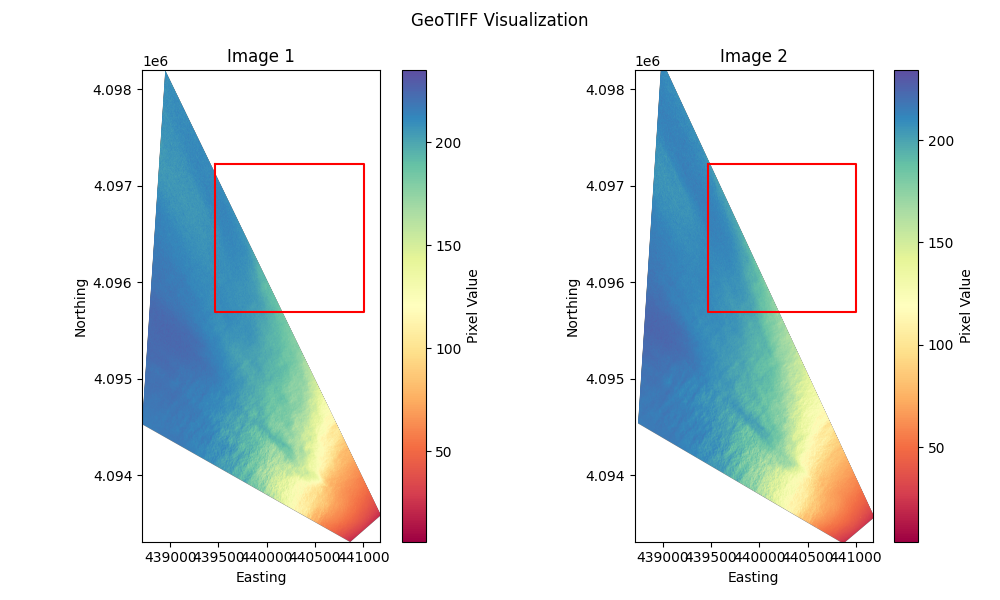
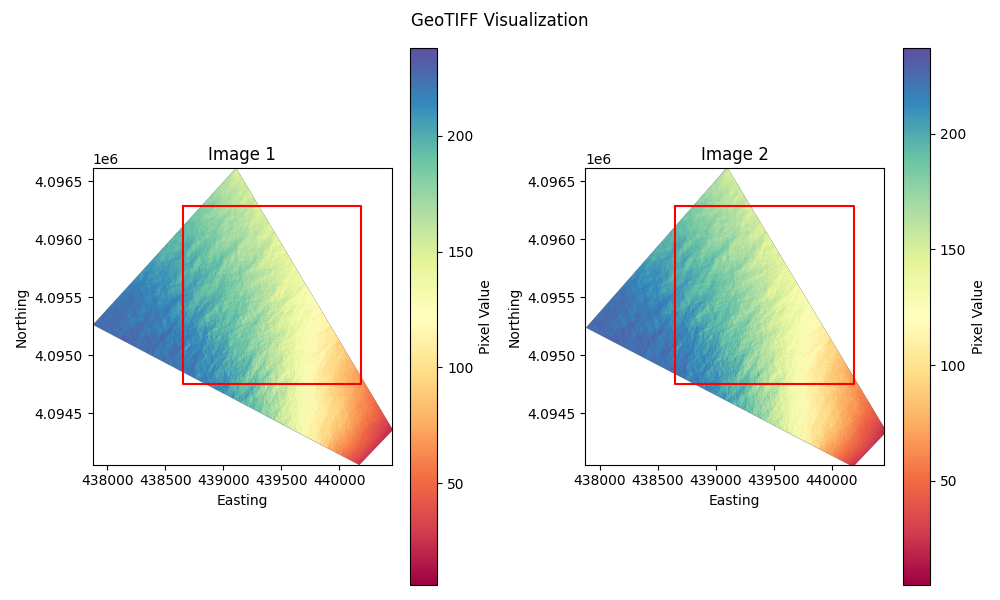
Early image processing code

diff --git a/process_images.py b/process_images.py
@@ -9,32 +9,78 @@ import exiftool
 import matplotlib.pyplot as plt
 import aerial_imagery.geotiff
 
-### INPUTS
-box_size=256*6
-exif_nc_dir = '/scratch/pawsey0106/azulberti/DOPPVIS'
+### INPUTS ###
+box_size  = 256*4
+image_seq = 8 # Spacing between images in image pairs
+
+exif_nc_dir  = '/scratch/pawsey0106/azulberti/DOPPVIS'
+
+# These ones are East-West flight lines
 exif_nc_stub = 'DoppVis_20230418_000132_054-20230418_001344_555'
 
+# These ones are West-East flight lines
+exif_nc_stub = 'DoppVis_20230418_001542_055-20230418_002726_555'
 
 print('Starting image processing...')
 
+output_dir = os.path.join(exif_nc_dir, 'processed_images')
 
-exif_nc = os.path.join(exif_nc_dir, f'{exif_nc_stub}_exif_data.nc')
-nc_outfile = os.path.join(exif_nc_dir, f'{exif_nc_stub}_extracted_boxes_v2.nc')
+exif_nc    = os.path.join(exif_nc_dir, f'{exif_nc_stub}_exif_data.nc')
+nc_outfile = os.path.join(output_dir, f'{exif_nc_stub}_extracted_boxes_[{image_seq}_{box_size}].nc')
+
+
+if not os.path.exists(output_dir):
+    os.makedirs(output_dir)
 
 if os.path.exists(nc_outfile):
     print(f'   {nc_outfile} already exists...')
     pass
 
-
-
 os.path.exists(exif_nc)
-
 ds_exif = xr.open_dataset(exif_nc)
 
 print(ds_exif)
 
-files = ds_exif['File:FileName'].values
-first_image = files[0]
+# files = ds_exif['File:FileName'].values
+# first_image = files[0]
+
+def get_theta(ds_exif):
+    # Extracting the angle of the flight line 
+    ModelTiePoint = ds_exif['EXIF:ModelTiePoint'].values
+    PixelScale    = ds_exif['EXIF:PixelScale'].values
+
+    Easting_tl    = np.array([float(mtp.split(' ')[3]) for mtp in ModelTiePoint])
+    Northing_tl   = np.array([float(mtp.split(' ')[4]) for mtp in ModelTiePoint])
+    scale_x       = np.array([float(mtp.split(' ')[0]) for mtp in PixelScale])
+    scale_y       = np.array([float(mtp.split(' ')[1]) for mtp in PixelScale])
+    width         = ds_exif['EXIF:ImageWidth'].values
+    height        = ds_exif['EXIF:ImageHeight'].values
+
+    Easting_br = Easting_tl + scale_x * width
+    Northing_br = Northing_tl - scale_y * height
+
+    # Now fit a line to Easting_br and Northing_br  to get the angle
+    A = np.vstack([Easting_br, np.ones(len(Easting_br))]).T
+    m, c = np.linalg.lstsq(A, Northing_br, rcond=None)[0]
+    theta = np.arctan(m) * 180 / np.pi
+
+    print(f'Flight line angle (theta): {theta} degrees')
+
+    return theta, Easting_br, Northing_br
+
+theta, Easting_br, Northing_br = get_theta(ds_exif)
+# Now we need to determine the flight direction 
+if np.mean(Easting_br[0:10]) > np.mean(Easting_br[-10:]):
+    flight_direction = 'E-W'
+    raise Exception("Don't wan't to deal with this case yet")
+else:
+    flight_direction = 'W-E'
+    print('Flight direction is W-E')
+    # raise Exception("Should be right")
+
+all_exif_nc    = os.path.join(exif_nc_dir, f'*_exif_data.nc')
+all_exif_nc_files = glob.glob(all_exif_nc)
+print(f'Found {len(all_exif_nc_files)} exif nc files in {exif_nc_dir}')
 
 # print(f'First image in the dataset: {first_image}')
 
@@ -54,17 +100,17 @@ first_image = files[0]
 
 # print('Image processing complete.')
 
-def get_data(ds_exif, index):
+def get_data(ds_exif, index, image_seq=1):
     # Add an option to be given file 1, such as in the event of series loading
 
     file  = ds_exif['File:FileName'].values[index]  # Just take the first file for demonstration
-    file2 = ds_exif['File:FileName'].values[index+1]  # Just take the first file for demonstration
+    file2 = ds_exif['File:FileName'].values[index+image_seq]  # Just take the first file for demonstration
 
     data, extent   = _get_data(file)
     data2, extent2 = _get_data(file2)
 
-    time = ds_exif['time'].values[index]
-    time2 = ds_exif['time'].values[index+1]
+    time  = ds_exif['time'].values[index]
+    time2 = ds_exif['time'].values[index+image_seq]
 
     return data, extent, data2, extent2, time, time2
 
@@ -91,6 +137,8 @@ def find_box(data, extent, data2, extent2, box_size=256*12):
     # Find a random box in the first image and locate it's pixel coordinates in the second image
     import numpy as np
     import random
+
+    max_attemps = 150
 
     h, w = data.shape
     h2, w2 = data2.shape
@@ -125,13 +173,14 @@ def find_box(data, extent, data2, extent2, box_size=256*12):
         if np.isfinite(box).all() and np.isfinite(box2).all():
             happy = True
 
-        if attempts > 5:
+        if attempts > max_attemps:
+            print(f"   Could not find a valid box after {max_attemps} attempts, returning NaNs for box2")
             return box, None, (y, y+box_size, x, x+box_size), [None]*4, (lon1, lat1, lon2, lat2)
 
-
-    print(f"Box in image 1 at pixel coordinates: y={y}:{y+box_size}, x={x}:{x+box_size}")
-    print(f"Box in image 2 at geographic coordinates: lon1={lon1}, lat1={lat1}, lon2={lon2}, lat2={lat2}")
-    print(f"Box in image 2 at pixel coordinates: y={y2_1}:{y2_2}, x={x2_1}:{x2_2}")
+    print(f"Found valid box after {attempts} attempts:")
+    print(f"    Box in image 1 at pixel coordinates: y={y}:{y+box_size}, x={x}:{x+box_size}")
+    print(f"    Box in image 2 at geographic coordinates: lon1={lon1}, lat1={lat1}, lon2={lon2}, lat2={lat2}")
+    print(f"    Box in image 2 at pixel coordinates: y={y2_1}:{y2_2}, x={x2_1}:{x2_2}")
 
     return box, box2, (y, y+box_size, x, x+box_size), (y2_1, y2_2, x2_1, x2_2), (lon1, lat1, lon2, lat2)
 
@@ -165,12 +214,19 @@ def interpolate_boxes(box, box2, lon1, lat1, lon2, lat2):
     return boxI, box2I, dx, dy
 
 
+big_N = len(ds_exif)-1
+big_N = 50 
 
-for i in range(0, len(ds_exif)-1, 1):
-    print(f'Processing image pair index: {i} and {i+1}')
-    data, extent, data2, extent2, time, time2 = get_data(ds_exif, i)
+boxes1, boxes2 = [], []
+times1, times2 = [], []
+min_lons, min_lats, max_lons, max_lats = [], [], [], []
+time_processed = []
 
-    print('get_data line complete.')
+for i in range(0, big_N, 1):
+    print(f'Processing image pair index: {i} and {i+image_seq}')
+    data, extent, data2, extent2, time, time2 = get_data(ds_exif, i, image_seq)
+
+    print(f'get_data line complete for times {time} and {time2}.')
 
     box, box2, (y1, y2, x1, x2), (y21, y22, x21, x22), (lon1, lat1, lon2, lat2) = find_box(data, extent, data2, extent2, box_size=box_size)
     print((lon1, lat1, lon2, lat2))
@@ -179,11 +235,11 @@ for i in range(0, len(ds_exif)-1, 1):
     dy = (lat2 - lat1) / box.shape[0]
     print(f"dx={dx}, dy={dy}")
 
-    if False:
-        plt.figure(figsize=(10, 6)) # Adjust figure size as needed
+    if True:
+        plt.figure(figsize=(10, 12)) # Adjust figure size as needed
         plt.suptitle('GeoTIFF Visualization')
 
-        ax = plt.subplot(1, 2, 1)
+        ax = plt.subplot(2, 2, 1)
         plt.imshow(data, cmap='Spectral', extent=extent, origin='upper') # 'viridis' is a common colormap
         plt.colorbar(label='Pixel Value') # Add a color bar to indicate pixel values
         plt.title('Image 1')
@@ -192,7 +248,7 @@ for i in range(0, len(ds_exif)-1, 1):
         yl, xl = plt.ylim(), plt.xlim()
         plt.plot([lon1, lon2, lon2, lon1, lon1], [lat1, lat1, lat2, lat2, lat1], 'r-')
 
-        ax = plt.subplot(1, 2, 2)
+        ax = plt.subplot(2, 2, 2)
         plt.imshow(data2, cmap='Spectral', extent=extent2, origin='upper') # 'viridis' is a common colormap
         plt.colorbar(label='Pixel Value') # Add a color bar to indicate pixel values
         plt.title('Image 2')
@@ -202,17 +258,16 @@ for i in range(0, len(ds_exif)-1, 1):
         plt.ylim(yl)
         plt.plot([lon1, lon2, lon2, lon1, lon1], [lat1, lat1, lat2, lat2, lat1], 'r-', label='Randomly placed 1.5 km for spectral calcs')
 
-        plt.tight_layout()
+        # image_name = os.path.join(output_dir, f'{exif_nc_stub}_search_box_[pair_{i:03d}].png')
 
-        image_name = os.path.join(exif_nc_dir, f'{exif_nc_stub}_search_box_[pair_{i}].png')
-        plt.savefig(image_name)
-        print(f'Saved image to {image_name}')
+        # print(f'Saved image to {image_name}')
 
     if not box2 is None:
         ll_ext = (lon1, lon2, lat1, lat2)
+
         # Plot the extracted boxes
-        plt.figure(figsize=(10, 4))
-        ax = plt.subplot(1, 2, 1)
+        # plt.figure(figsize=(10, 4))
+        ax = plt.subplot(2, 2, 3)
         plt.suptitle(f'Extracted Boxes are [{box.shape[0]} x {box.shape[1]}] pixels i.e. {box.shape[0]*dx} m')
         plt.imshow(box, cmap='Spectral', origin='upper', extent=ll_ext) # 'viridis' is
         plt.colorbar(label='Pixel Value') # Add a color bar to indicate pixel values
@@ -220,7 +275,7 @@ for i in range(0, len(ds_exif)-1, 1):
         plt.xlabel('Easting')
         plt.ylabel('Northing')
 
-        ax = plt.subplot(1, 2, 2)
+        ax = plt.subplot(2, 2, 4)
         plt.imshow(box2, cmap='Spectral', origin='upper', extent=ll_ext) # 'viridis'
         plt.colorbar(label='Pixel Value') # Add a color bar to indicate pixel values
         plt.title('Extracted Box from Image 2')
@@ -228,7 +283,9 @@ for i in range(0, len(ds_exif)-1, 1):
         plt.ylabel('Northing')
         plt.tight_layout()
         
-        image_name = os.path.join(exif_nc_dir, f'{exif_nc_stub}_search_box_2_[pair_{i}].png')
+        image_name = os.path.join(output_dir, f'{exif_nc_stub}_search_box_[pair_{i:03d}].png')
+        
+        plt.tight_layout()
         plt.savefig(image_name)
 
     print('find_box line complete.')
@@ -248,28 +305,30 @@ for i in range(0, len(ds_exif)-1, 1):
 
     
     # Now I want to stack these boxes into a 4D array for processing later
-    if i == 0:
-        boxes1 = box[np.newaxis, :, :]
-        boxes2 = box2[np.newaxis, :, :]
-        times1 = np.array([time])
-        times2 = np.array([time2])
-        min_lons = np.array([lon1])
-        min_lats = np.array([lat1])
-        max_lons = np.array([lon2])
-        max_lats = np.array([lat2])
-        time_processed = np.array([datetime.utcnow()])
-    else:
-        boxes1 = np.vstack((boxes1, box[np.newaxis, :, :]))
-        boxes2 = np.vstack((boxes2, box2[np.newaxis, :, :]))
-        times1 = np.append(times1, time)
-        times2 = np.append(times2, time2)
-        min_lons = np.append(min_lons, lon1)
-        min_lats = np.append(min_lats, lat1)
-        max_lons = np.append(max_lons, lon2)
-        max_lats = np.append(max_lats, lat2)
-        time_processed = np.append(time_processed, datetime.utcnow())
+    boxes1.append(box)
+    boxes2.append(box2)
+    times1.append(time)
+    times2.append(time2)
+    min_lons.append(lon1)
+    min_lats.append(lat1)
+    max_lons.append(lon2)
+    max_lats.append(lat2)
+    time_processed.append(datetime.utcnow())
 
-    print(f'Boxes shape: {boxes1.shape}, {boxes2.shape}')
+    print('Just logged times of {} and {}'.format(time, time2))
+
+boxes1 = np.stack(boxes1)
+boxes2 = np.stack(boxes2)
+times1 = np.array(times1)
+times2 = np.array(times2)
+min_lons = np.array(min_lons)
+min_lats = np.array(min_lats)
+max_lons = np.array(max_lons)
+max_lats = np.array(max_lats)
+time_processed = np.array(time_processed)
+
+print(times1)
+print(times2)
 
 # Now make an nc file with these boxes and times
 # Also include the lat/lon extents
